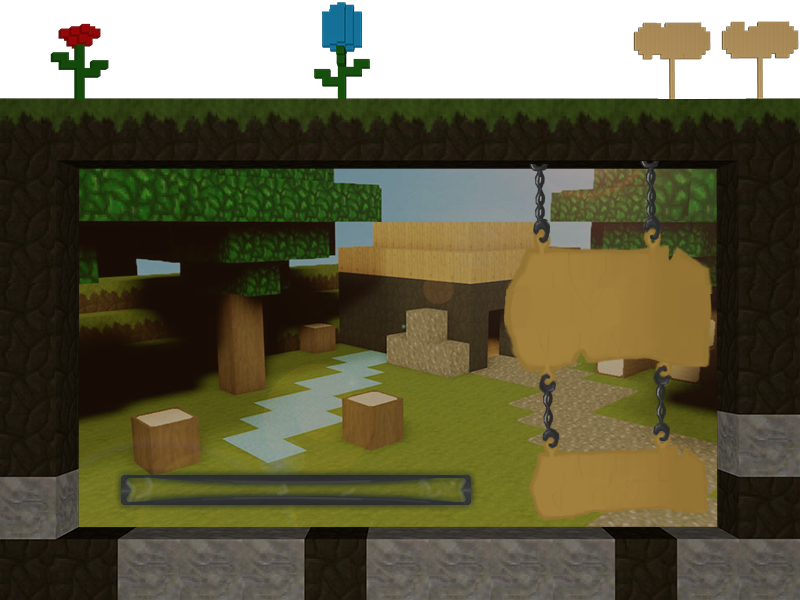
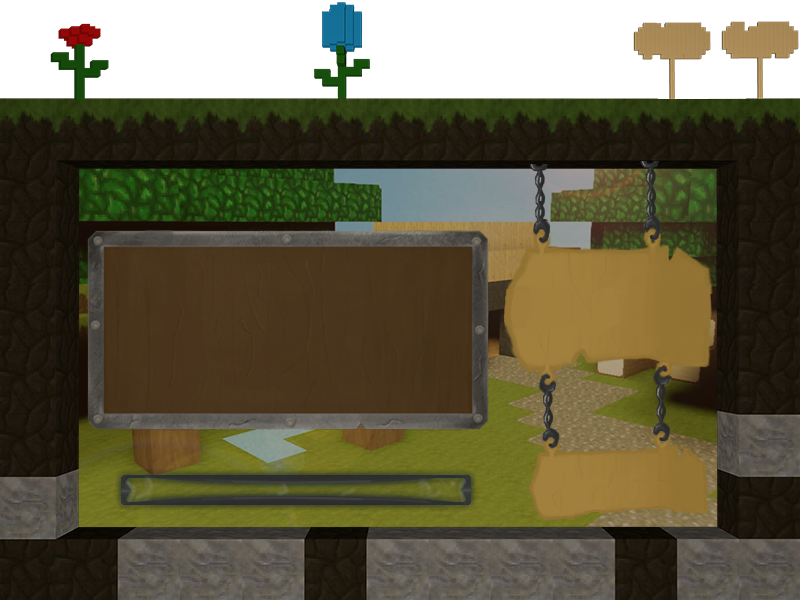
AJOUT SYSTEM DE NEWS (Pas encore finit)

Changed region(s): [[0.0938, 0.36, 0.625, 0.72]]

diff --git a/src/RSSReader.java b/src/RSSReader.java
@@ -1,0 +1,80 @@
+import java.io.IOException;
+import java.net.URL;
+import java.util.logging.Level;
+import java.util.logging.Logger;
+import javax.xml.parsers.DocumentBuilder;
+import javax.xml.parsers.DocumentBuilderFactory;
+import javax.xml.parsers.ParserConfigurationException;
+import org.w3c.dom.Document;
+import org.w3c.dom.Element;
+import org.w3c.dom.Node;
+import org.w3c.dom.NodeList;
+import org.xml.sax.SAXException;
+
+public class RSSReader {
+
+
+    public String[] parse(String feedurl) {
+        String[] news = new String[4];
+        try {
+            DocumentBuilder builder = DocumentBuilderFactory.newInstance().newDocumentBuilder();
+            URL url = new URL(feedurl);
+            Document doc = builder.parse(url.openStream());
+            NodeList nodes = null;
+            Element element = null;
+            nodes = doc.getElementsByTagName("title");
+            nodes = doc.getElementsByTagName("item");
+            news = new String[5];
+            for (int i = 0; i < news.length; i++) {
+                element = (Element) nodes.item(i);
+                news[i]= new String(readNode(element, "pubDate")).substring(4,16)+" : "+readNode(element, "title")  /*readNode(element, "link") + */;
+            } 
+        } catch (SAXException ex) {
+            Logger.getLogger(RSSReader.class.getName()).log(Level.SEVERE, null, ex);
+        } catch (IOException ex) {
+            Logger.getLogger(RSSReader.class.getName()).log(Level.SEVERE, null, ex);
+        } catch (ParserConfigurationException ex) {
+            Logger.getLogger(RSSReader.class.getName()).log(Level.SEVERE, null, ex);
+        }
+        return news;
+    }
+
+    public String readNode(Node _node, String _path) {
+
+        String[] paths = _path.split("\\|");
+        Node node = null;
+
+        if (paths != null && paths.length > 0) {
+            node = _node;
+
+            for (int i = 0; i < paths.length; i++) {
+                node = getChildByName(node, paths[i].trim());
+            }
+        }
+
+        if (node != null) {
+            return node.getTextContent();
+        } else {
+            return "";
+        }
+    }
+
+    public Node getChildByName(Node _node, String _name) {
+        if (_node == null) {
+            return null;
+        }
+        NodeList listChild = _node.getChildNodes();
+
+        if (listChild != null) {
+            for (int i = 0; i < listChild.getLength(); i++) {
+                Node child = listChild.item(i);
+                if (child != null) {
+                    if ((child.getNodeName() != null && (_name.equals(child.getNodeName()))) || (child.getLocalName() != null && (_name.equals(child.getLocalName())))) {
+                        return child;
+                    }
+                }
+            }
+        }
+        return null;
+    }
+}

diff --git a/src/News.java b/src/News.java
@@ -1,0 +1,28 @@
+import java.awt.*;  
+
+import javax.swing.*;
+
+@SuppressWarnings("serial")
+public class News extends JPanel{  
+	
+	String[] newsList = new String[5];
+
+	public News (){  
+		super();  
+		RSSReader reader = new RSSReader();
+		newsList=reader.parse("http://voxelion.over-blog.com/rss");
+	}  
+
+	public void paintComponent(Graphics g){  
+		JTextArea news = new JTextArea();
+		news.setBounds(2,2,400,400);
+		for(int i = 0; i < newsList.length; i++){
+		    String line = newsList[i].replaceAll("\\[|\\]|,", " ");
+		    news.append(line + "\n");
+		}
+		news.setFont(new Font("Distant Galaxy", Font.PLAIN, 20));
+		news.setOpaque(false);
+		news.setEditable(false);
+		add(news);
+	}
+}

diff --git a/src/Loader.java b/src/Loader.java
@@ -1,3 +1,4 @@
+import java.io.File;
 import java.io.InputStream;
 
 @SuppressWarnings("unused")
